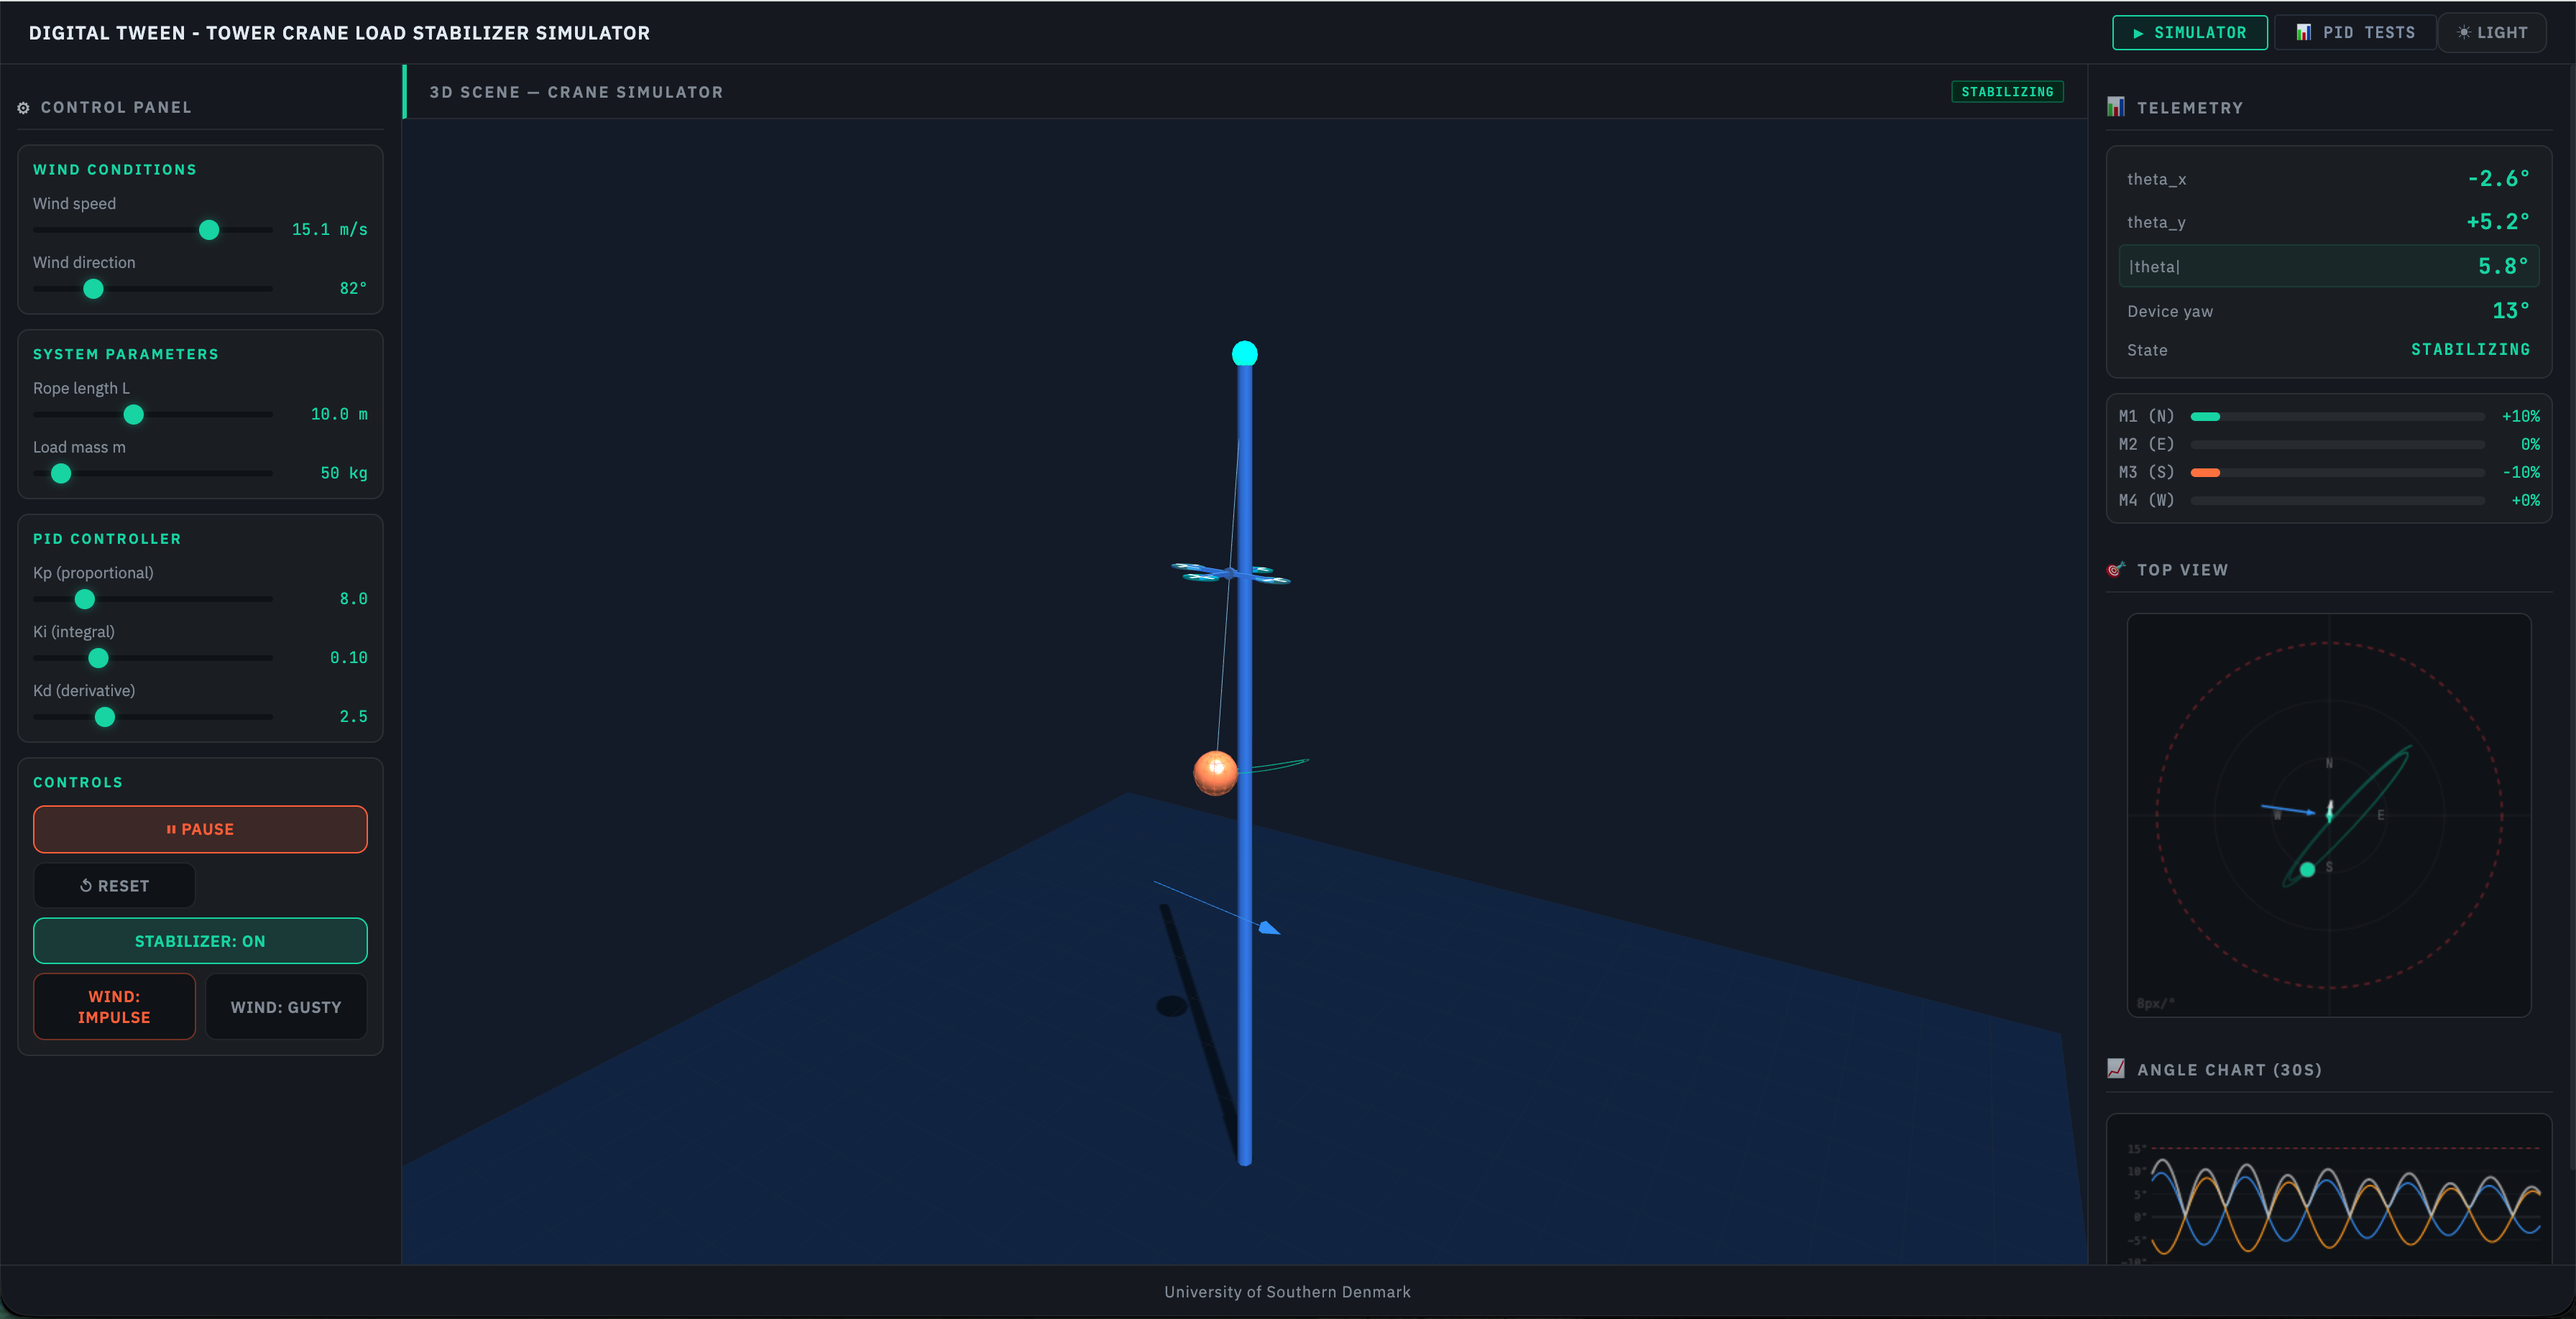
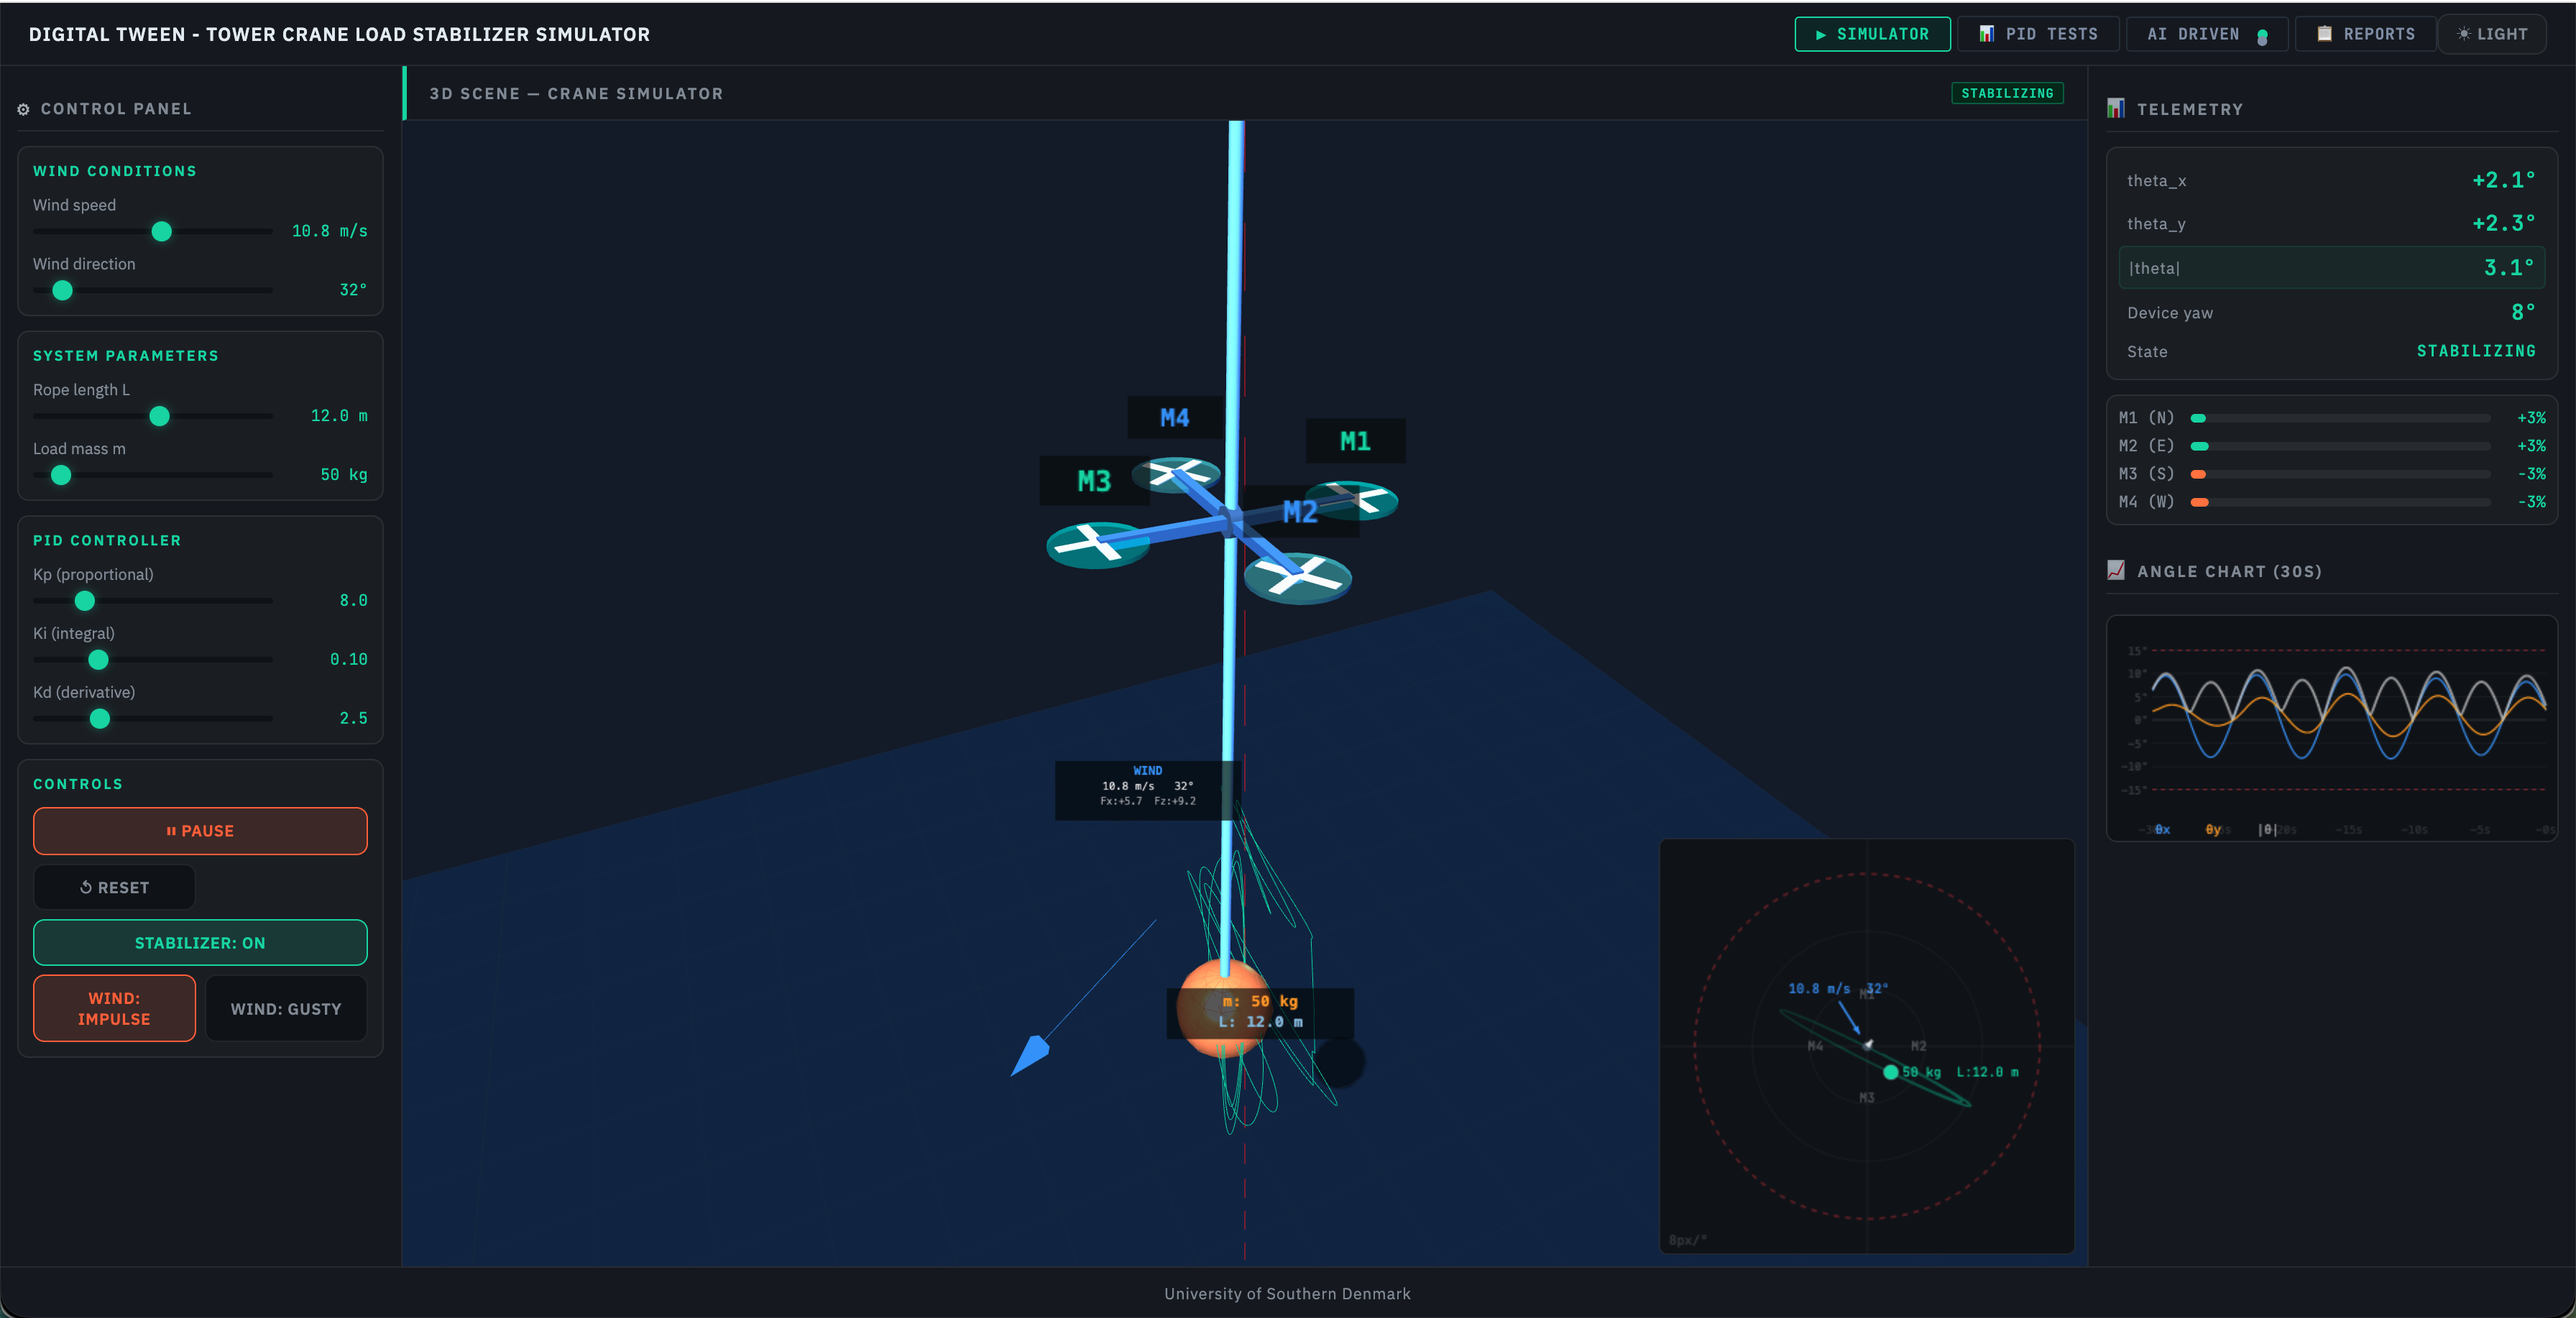
screenshots update to actual view of an app

diff --git a/README.md b/README.md
@@ -42,6 +42,14 @@ A **Reports tab** stores and compares AI-driven sessions, showing timeseries cha
 
 ![Screenshot of DŹWIK](img/dzwik02.png)
 
+![Screenshot of DŹWIK](img/dzwik03.png)
+
+![Screenshot of DŹWIK](img/dzwik04.png)
+
+![Screenshot of DŹWIK](img/dzwik05.png)
+
+![Screenshot of DŹWIK](img/dzwik06.png)
+
 ---
 
 ## 📦 Requirements
